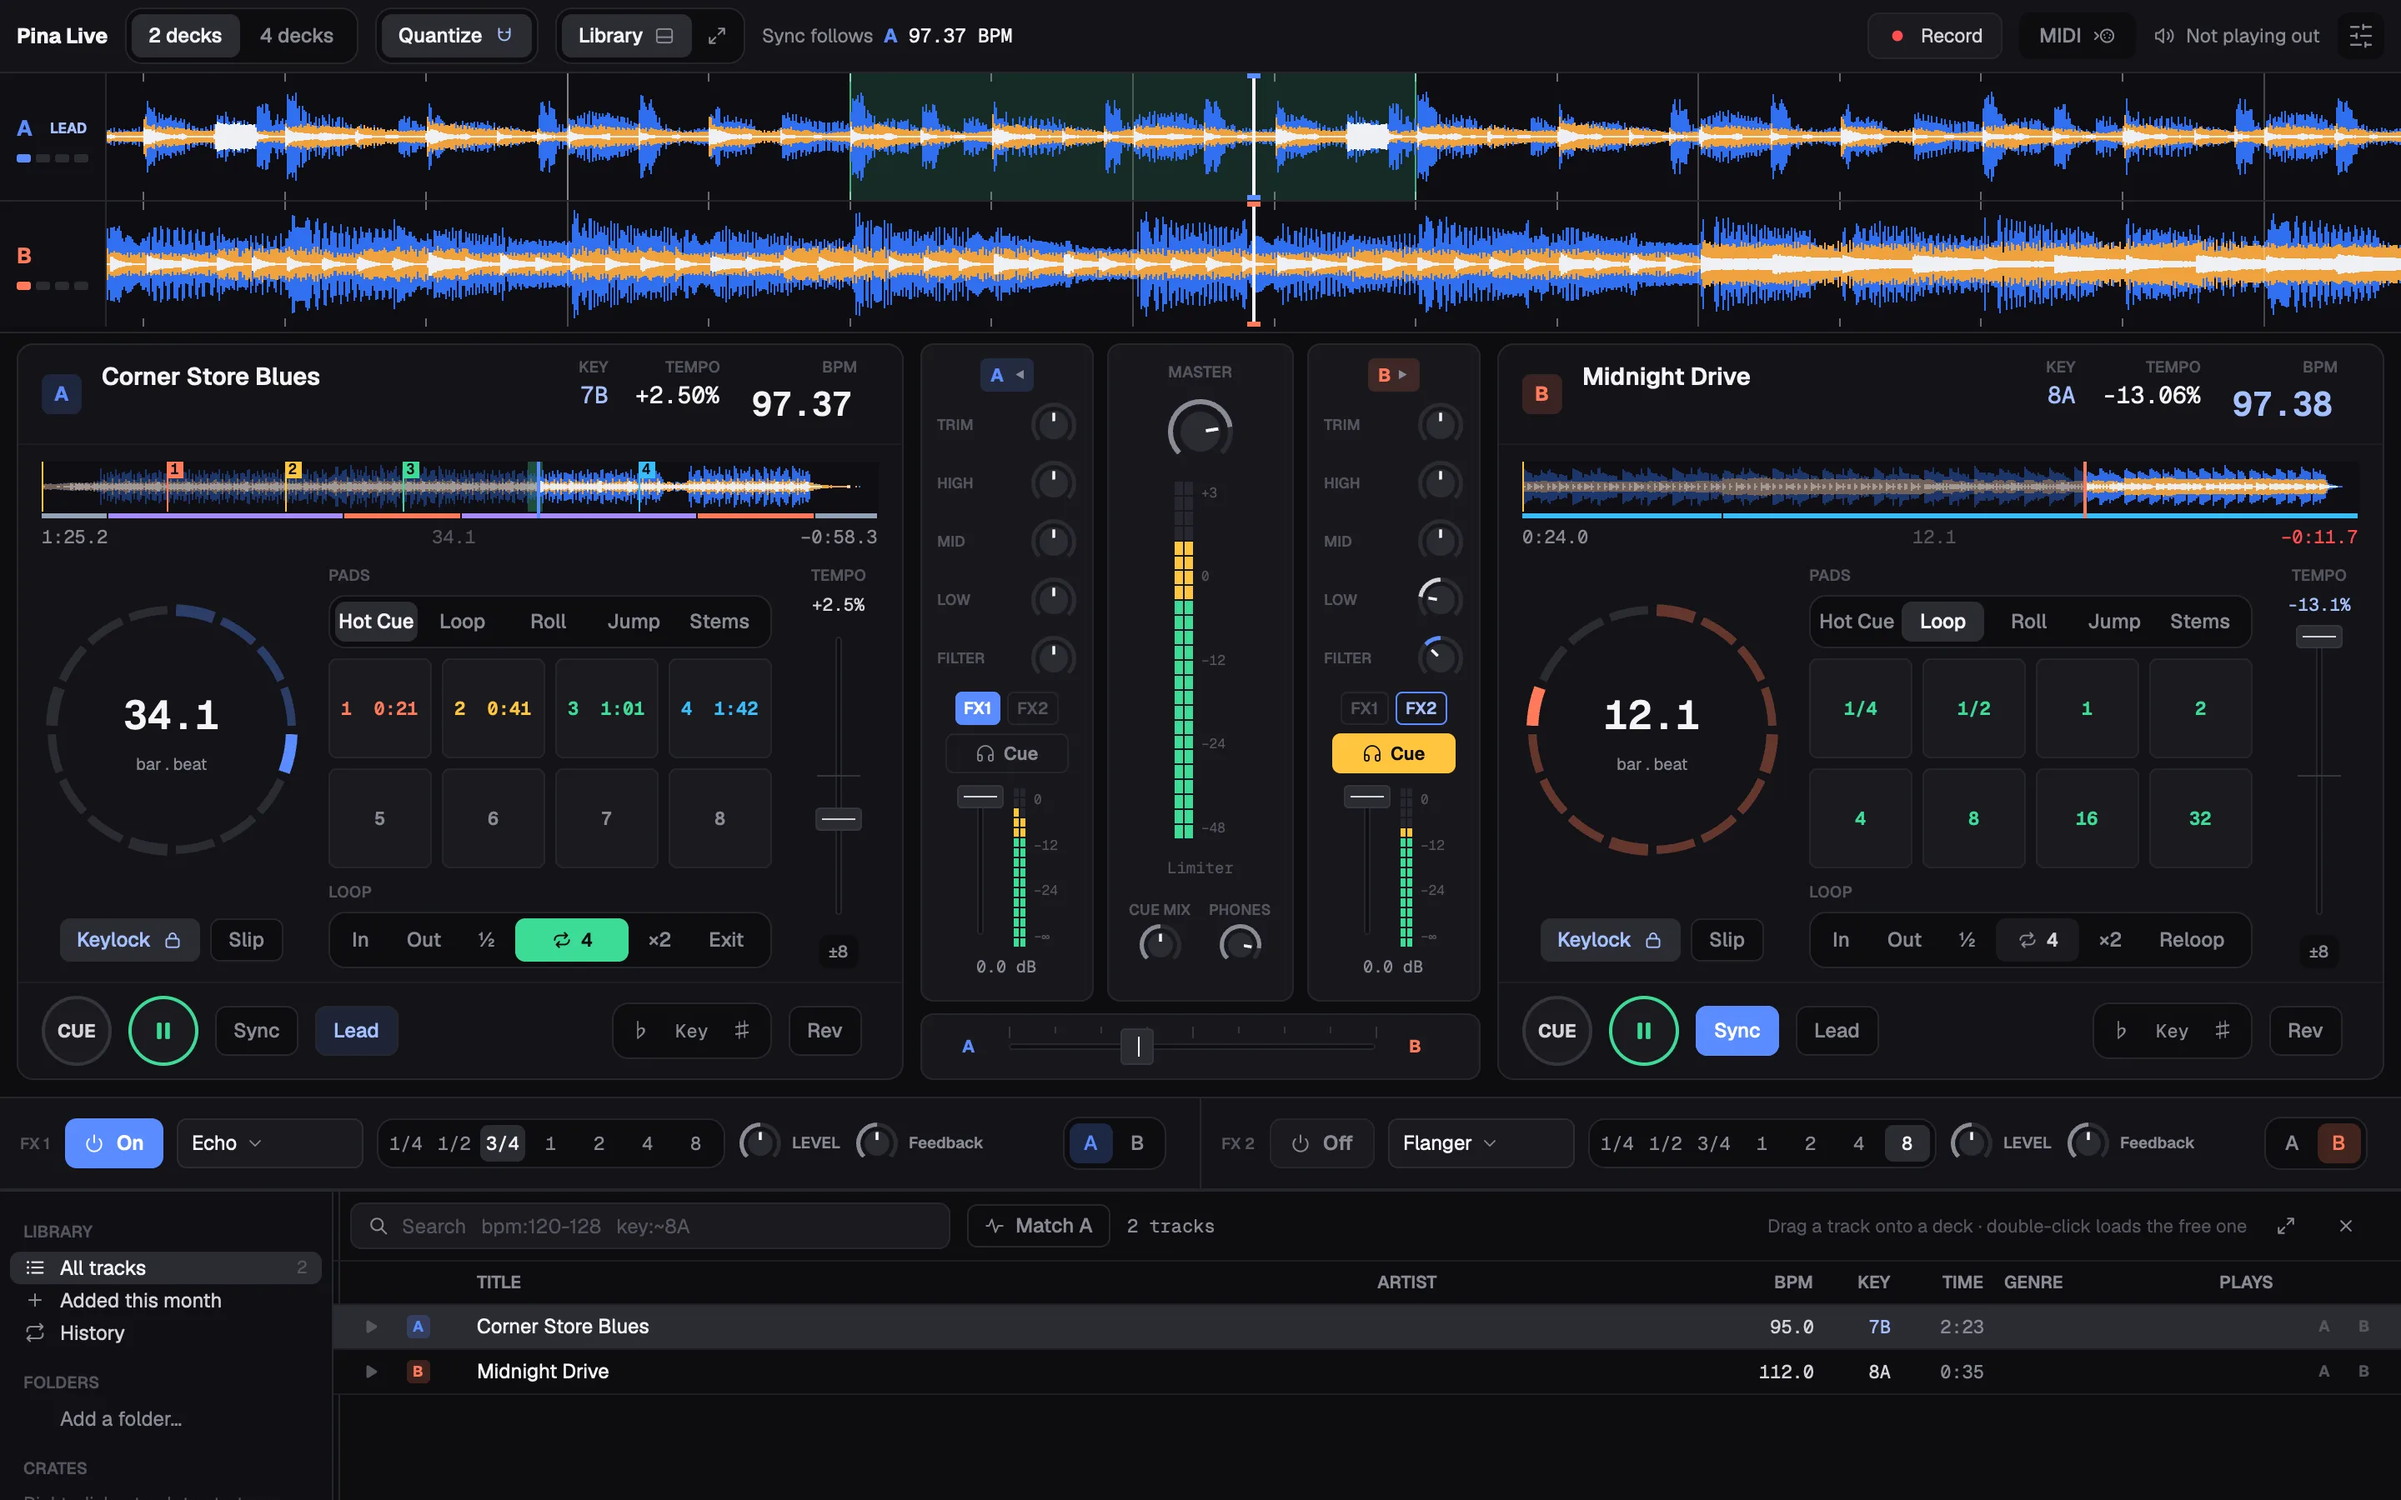
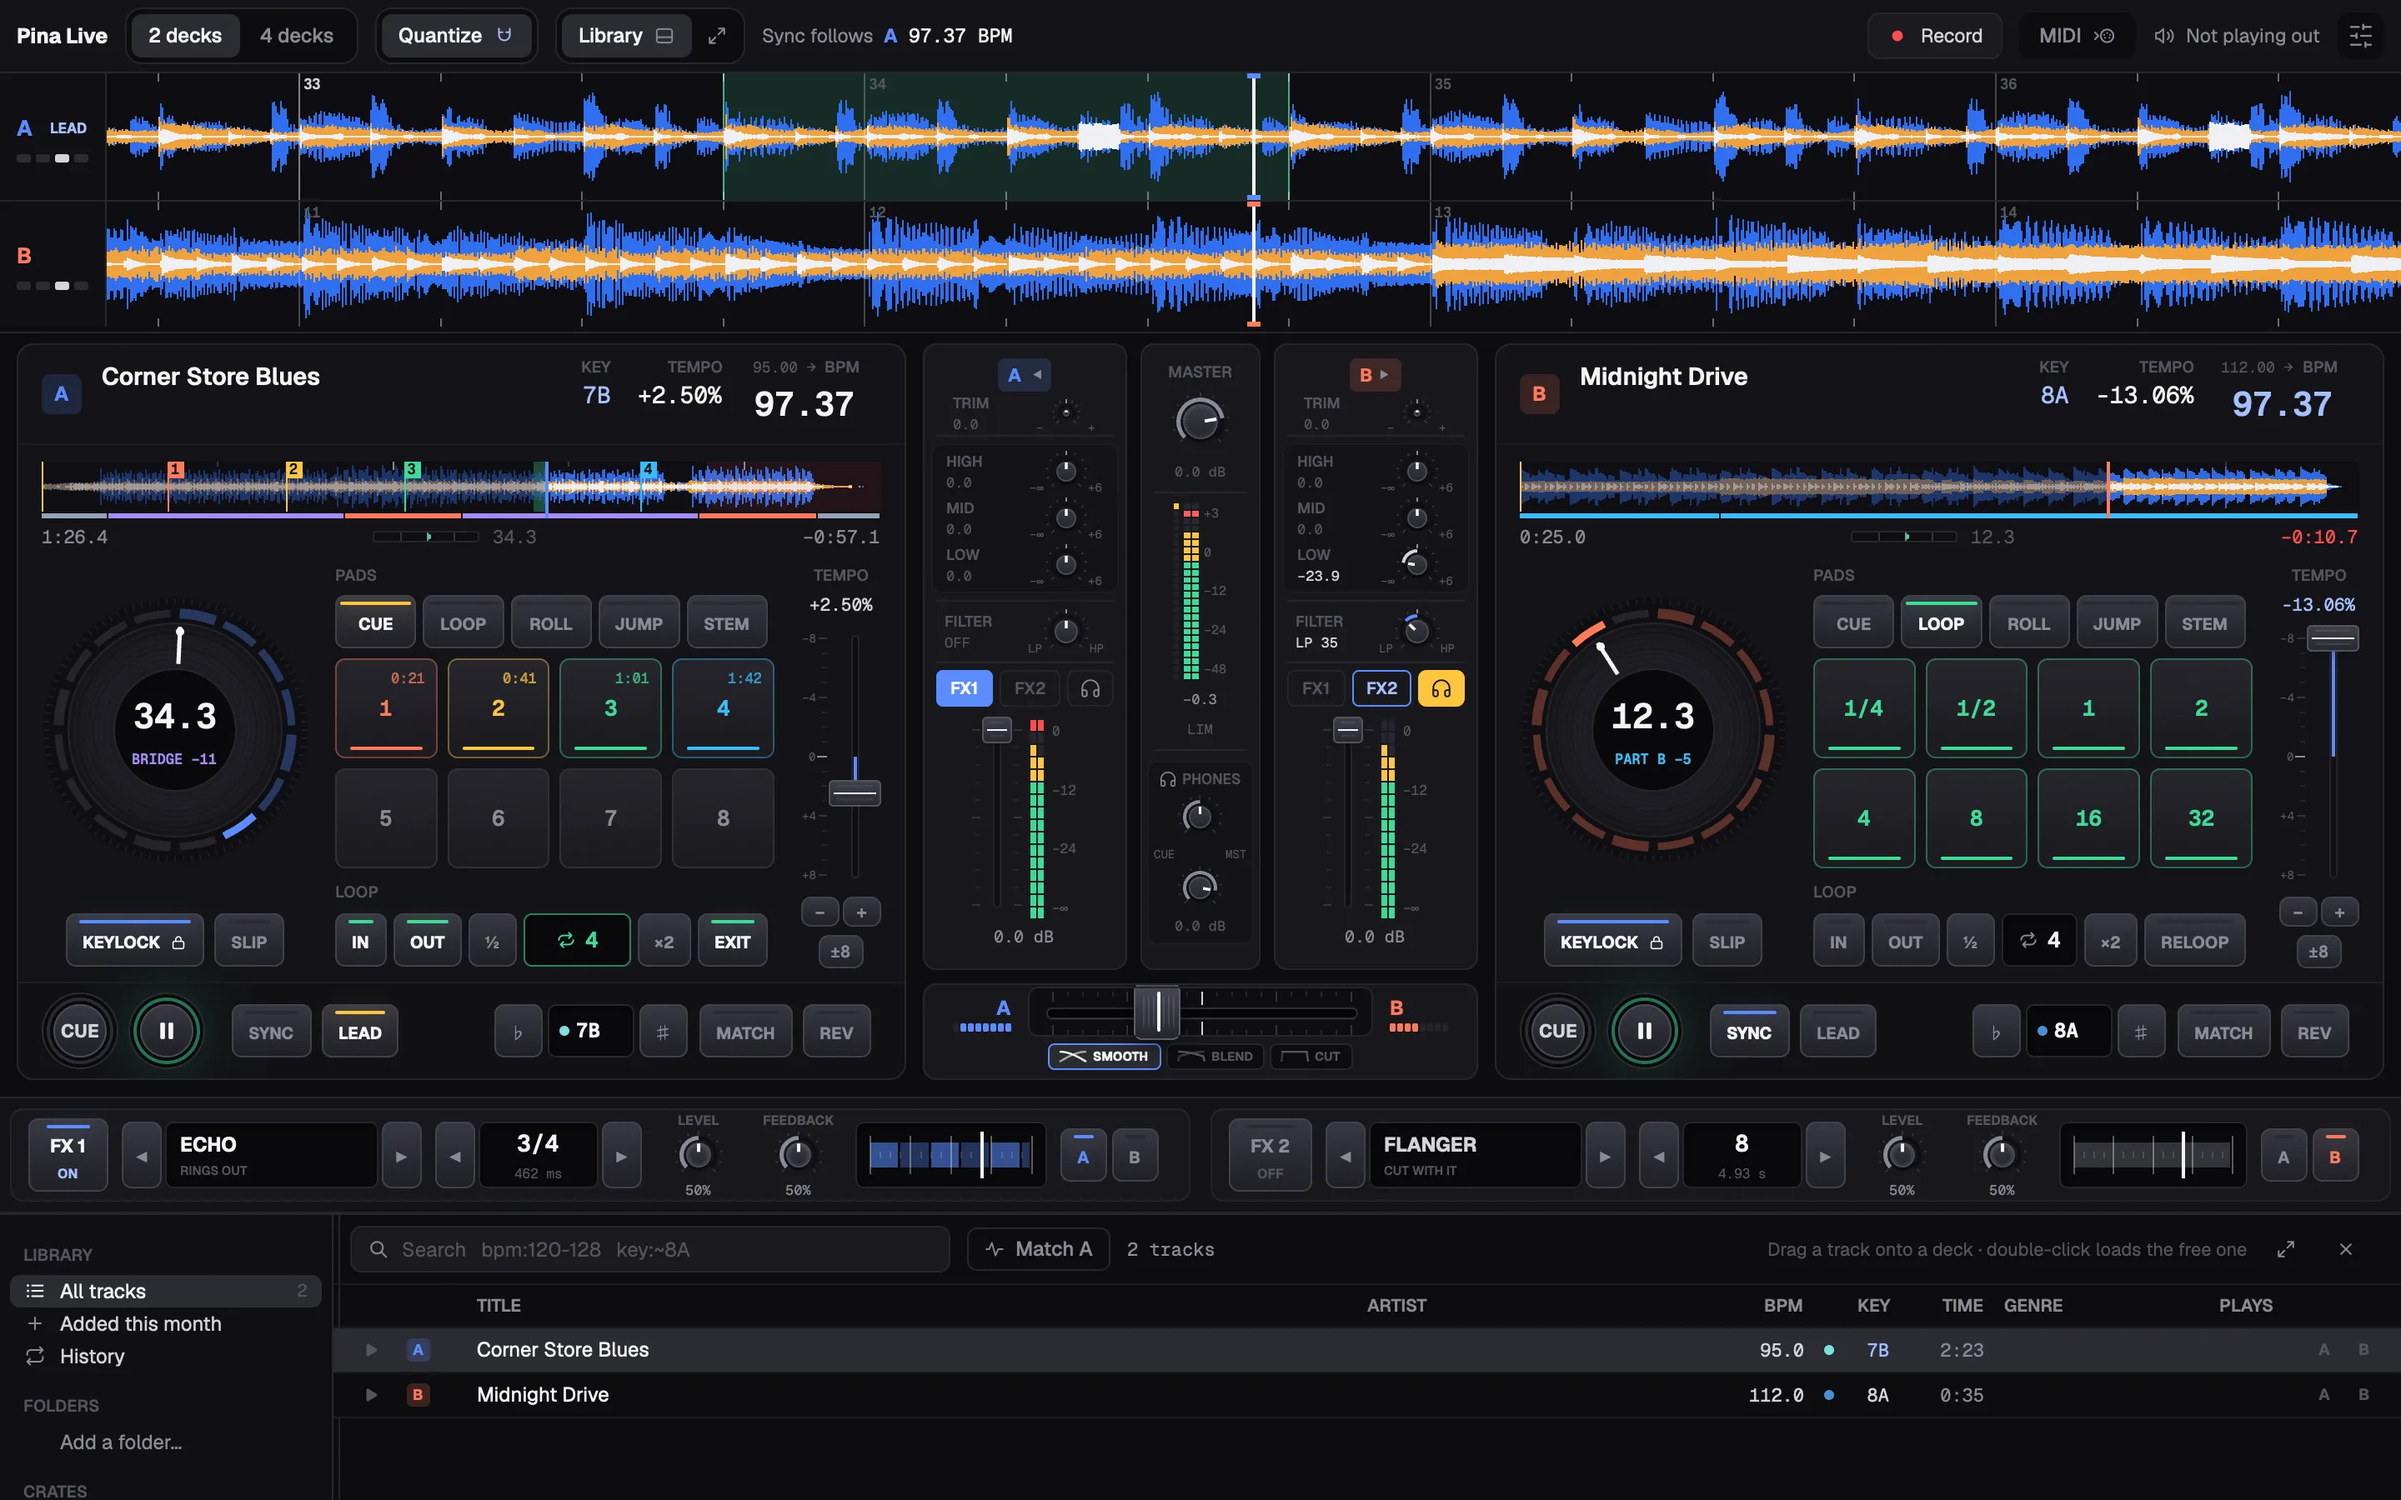
Website: Pina Live as it looks now
New screenshots of the redesigned decks (jogs, lit pads and keys, MATCH),
mixer, crossfader and FX units, with Corner Store Blues and Midnight
Drive; the copy says what they do.

diff --git a/site/index.html b/site/index.html
@@ -708,26 +708,26 @@
             <div class="tabs__panel" role="tabpanel" id="panel-live-decks" aria-labelledby="tab-live-decks" tabindex="0">
               <figure class="shot shot--fit" style="--ar:1.6" data-react>
                 <div class="glow" aria-hidden="true"><i></i><i></i><i></i><i></i><i></i></div>
-                <div class="bleed" aria-hidden="true"><img src="media/live-decks.webp" width="2880" height="1800" alt="" loading="lazy" decoding="async"></div>
-                <div class="frame"><img src="media/live-decks.webp" width="2880" height="1800" loading="lazy" decoding="async" alt="Pina Live with Corner Store Blues on deck A and Midnight Drive on deck B, synced at 97.37 BPM: scrolling waveforms above, each deck's hot cues, loop pads, beat ring and pitch fader, the mixer between them and the library below."></div>
+                <div class="bleed" aria-hidden="true"><img src="media/live-decks.webp?v=2" width="2880" height="1800" alt="" loading="lazy" decoding="async"></div>
+                <div class="frame"><img src="media/live-decks.webp?v=2" width="2880" height="1800" loading="lazy" decoding="async" alt="Pina Live with Corner Store Blues on deck A and Midnight Drive on deck B, synced at 97.37 BPM: numbered waveforms above; each deck's jog with its count and phrase, lit hot cue and loop pads, pitch fader, and CUE, PLAY, SYNC, LEAD and MATCH keys; the mixer and crossfader between them; two FX units and the library below."></div>
               </figure>
-              <p class="tabs__cap">Drag a track onto the deck you want. Each deck has hot cues, loops, rolls and jumps on eight pads, keylock that holds the key at any tempo, slip, and sync that lands on the bar, then the beat. The waveforms scroll above, coloured by their lows, mids and highs, on the track's beat grid.</p>
+              <p class="tabs__cap">Drag a track onto the deck you want, and it plays like a player: CUE and PLAY lit as a CDJ's are (PLAY's ring brightening on every beat), a jog with the phrase's sixteen beats round it and, on its screen, the phrase it's in and the bars left of it. Eight pads for hot cues, loops, rolls and jumps; keylock, slip, and sync that lands on the bar, then the beat; MATCH shifts a track's key to the nearest one that mixes with the other deck. The waveforms scroll above, numbered by the bar.</p>
             </div>
             <div class="tabs__panel" role="tabpanel" id="panel-live-stems" aria-labelledby="tab-live-stems" tabindex="0" hidden>
               <figure class="shot shot--fit" style="--ar:1.6" data-react>
                 <div class="glow" aria-hidden="true"><i></i><i></i><i></i><i></i><i></i></div>
-                <div class="bleed" aria-hidden="true"><img src="media/live-stems.webp" width="2880" height="1800" alt="" loading="lazy" decoding="async"></div>
-                <div class="frame"><img src="media/live-stems.webp" width="2880" height="1800" loading="lazy" decoding="async" alt="Stems in Pina Live: deck A parting its track with BS-RoFormer SW, its progress and a Stop button; deck B with Drums, Bass and Rest pads and Beat only, No beat and All."></div>
+                <div class="bleed" aria-hidden="true"><img src="media/live-stems.webp?v=2" width="2880" height="1800" alt="" loading="lazy" decoding="async"></div>
+                <div class="frame"><img src="media/live-stems.webp?v=2" width="2880" height="1800" loading="lazy" decoding="async" alt="Stems in Pina Live: deck A parting its track as it loads, with BS-RoFormer SW, its progress and a Stop button; deck B with lit Drums, Bass and Rest pads, and Beat only, No beat, All and More."></div>
               </figure>
               <p class="tabs__cap">Part a track into vocals, drums, bass and the rest, or just the part you need: vocals only or the beat only goes to the quickest model you have. Tracks are parted as they load, so the stems are usually there when you reach for them. Like Pina Studio, Pina Live ships no models: download one from where its maker hosts it, or add your own.</p>
             </div>
             <div class="tabs__panel" role="tabpanel" id="panel-live-four" aria-labelledby="tab-live-four" tabindex="0" hidden>
               <figure class="shot shot--fit" style="--ar:1.6" data-react>
                 <div class="glow" aria-hidden="true"><i></i><i></i><i></i><i></i><i></i></div>
-                <div class="bleed" aria-hidden="true"><img src="media/live-four.webp" width="2880" height="1800" alt="" loading="lazy" decoding="async"></div>
-                <div class="frame"><img src="media/live-four.webp" width="2880" height="1800" loading="lazy" decoding="async" alt="Pina Live with four decks: A and C left of the mixer, B and D right of it, four channel strips and the master between them, and the crossfader marked A C and B D."></div>
+                <div class="bleed" aria-hidden="true"><img src="media/live-four.webp?v=2" width="2880" height="1800" alt="" loading="lazy" decoding="async"></div>
+                <div class="frame"><img src="media/live-four.webp?v=2" width="2880" height="1800" loading="lazy" decoding="async" alt="Pina Live with four decks: A and C left of the mixer, B and D right of it, four channel strips and the master between them, and the crossfader marked A C and B D."></div>
               </figure>
-              <p class="tabs__cap">Four decks: A and C on the crossfader's left, B and D on its right. In a narrower window each side shows one deck at a time, switched between A and C or B and D. Every panel resizes by its edge, and the library closes or fills the window.</p>
+              <p class="tabs__cap">Four decks: A and C on the crossfader's left, B and D on its right, each end lighting up with how much of it you hear. In a narrower window each side shows one deck at a time, switched between A and C or B and D. The mixer grows with the window, every panel resizes by its edge, and the library closes or fills the window.</p>
             </div>
           </div>
         </div>
@@ -735,12 +735,12 @@
         <div class="spec">
           <div class="spec__col reveal">
             <h3 class="spec__h">Mix</h3>
-            <p>A three-band isolator EQ and a one-knob filter on every channel, auto gain to −10 LUFS, a crossfader with its curve, headphone cue on a second pair of outputs or split in one jack, and Pina Studio's limiter on the master. Record the mix to WAV.</p>
+            <p>A three-band isolator EQ and a one-knob filter on every channel, each knob reading what it's set to, meters that hold their peaks, auto gain to −10 LUFS, a crossfader with three curves, headphone cue on a second pair of outputs or split in one jack, and Pina Studio's limiter on the master with what it takes off metered. Record the mix to WAV.</p>
           </div>
           <div class="spec__col reveal">
             <h3 class="spec__h">Effects</h3>
             <p class="formats"><span>Echo</span><span>Reverb</span><span>Flanger</span><span>Tape Stop</span></p>
-            <p>Fifteen beat-synced effects in two units, each on any deck, after the fader, with tails that ring out when they're switched off.</p>
+            <p>Fifteen beat-synced effects in two units, each on any deck, after the fader, with tails that ring out when they're switched off. Each unit shows its length in milliseconds at the tempo, and the bar it's timed against.</p>
           </div>
           <div class="spec__col reveal">
             <h3 class="spec__h">Library</h3>
